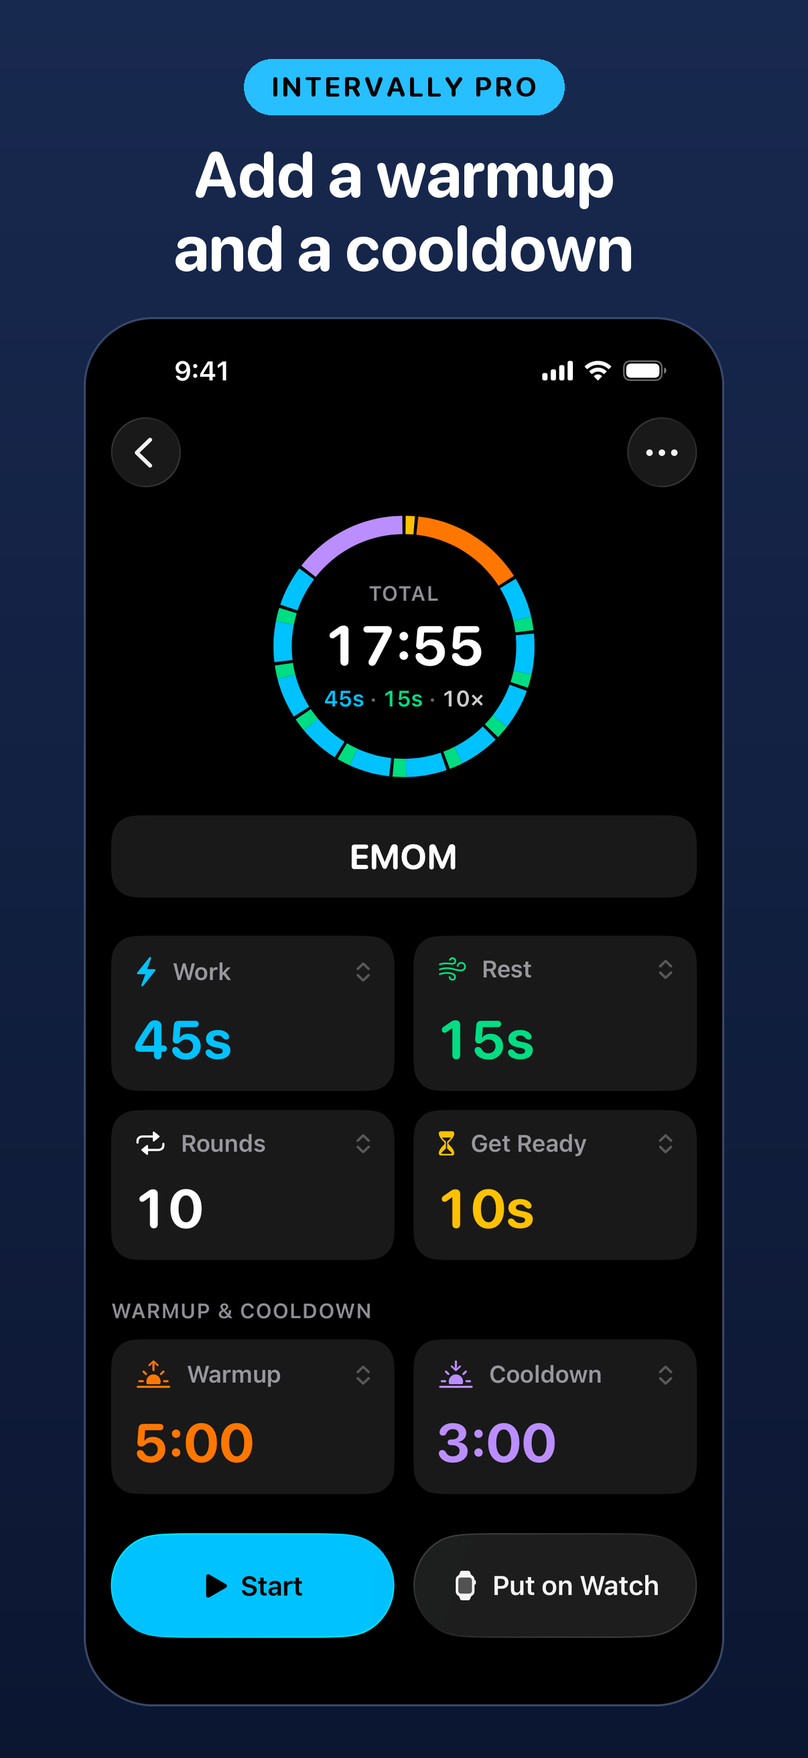
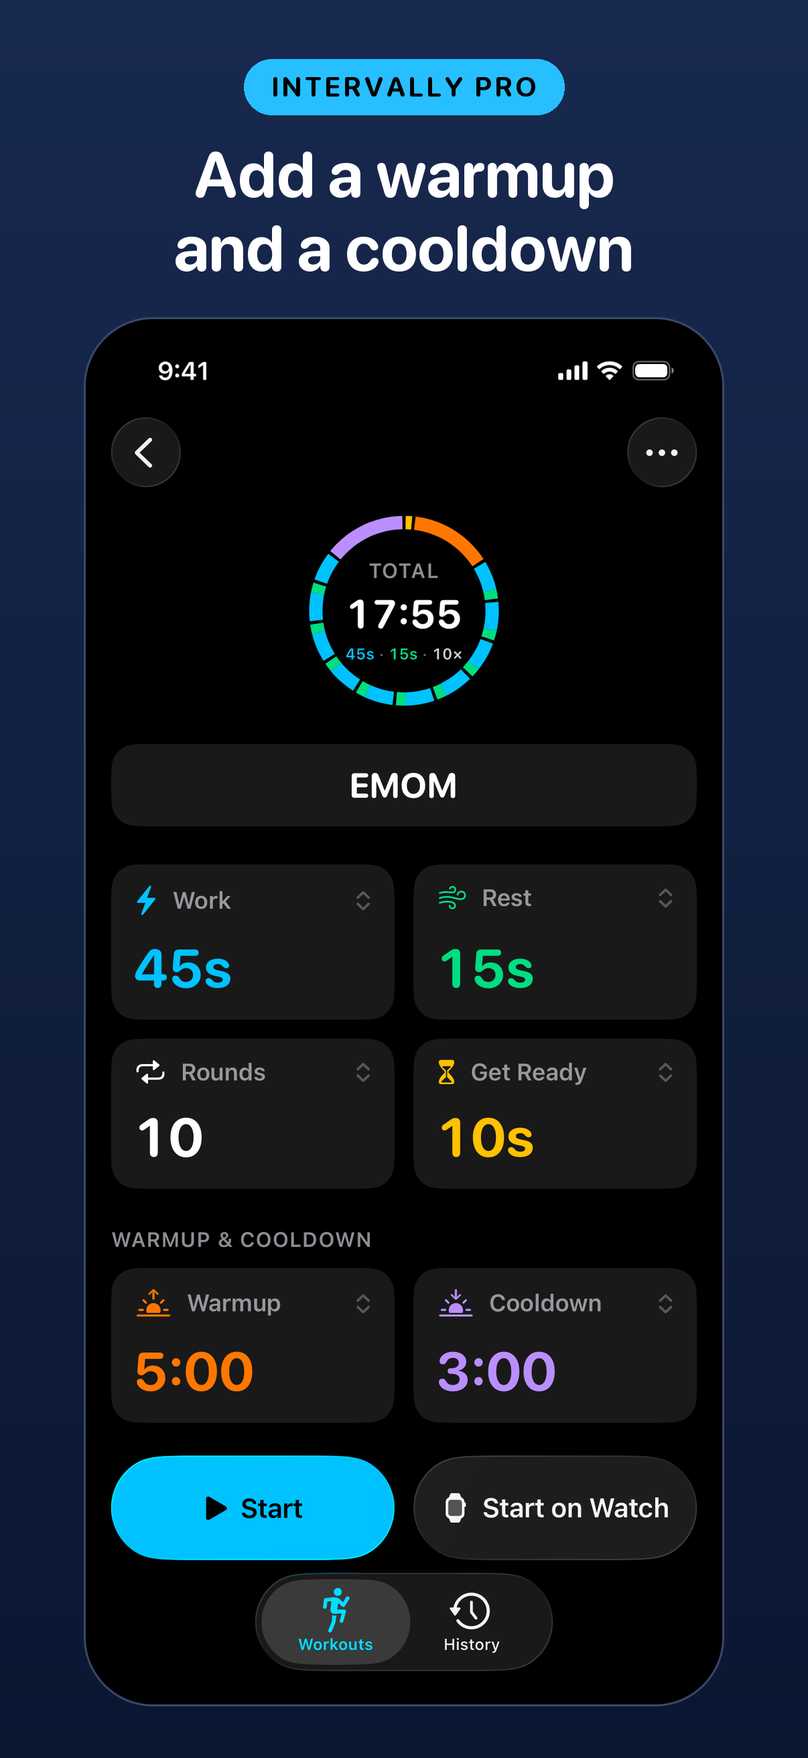
1.1 listing and screenshots for iPad, Start on Watch and calories
- A 13-inch iPad set, now required, and a fresh iPhone set: the editor
  with its tab bar and Start on Watch, the session led by calories.
- compose.py lays out a 3:4 capture for iPad, with iPad captions where
  the iPhone's speak of iPhone or the watch.
- Description, What's New and the reviewer notes cover iPad, iPhone
  Duo, Start on Watch and calories; the notes stay under 4000.
- History rows keep the date and rounds on one line where they fit, and
  put the rounds under the date whole where they don't.

Changed region(s): [[0.1227, 0.278, 0.8897, 0.9577], [0.675, 0.1854, 0.8284, 0.2162], [0.1841, 0.1854, 0.2761, 0.2162]]

diff --git a/PhoneTests/ShipAssetsTests.swift b/PhoneTests/ShipAssetsTests.swift
@@ -21,9 +21,11 @@ struct ShipAssetsTests {
     }
 
     /// Each screenshot folder and the one size App Store Connect takes for it. One iPhone
-    /// set: App Store Connect uses the medium display's shots for every iPhone size.
+    /// set: App Store Connect uses the medium display's shots for every iPhone size. One
+    /// iPad set, the 13-inch, which App Store Connect requires of an app that runs on iPad.
     static let sets: [String: Size] = [
         "iPhone-6.3": Size(width: 1206, height: 2622),
+        "iPad-13": Size(width: 2064, height: 2752),
         "Watch": Size(width: 416, height: 496),
     ]
 
@@ -61,6 +63,16 @@ struct ShipAssetsTests {
         for pro in ["7-pro-editor", "8-pastel"] {
             #expect(compose.contains("('\(pro)', 'INTERVALLY PRO'"), "\(pro) is captioned Intervally Pro (2.3.2)")
         }
+    }
+
+    @Test("The iPad set is the iPhone's, shot for shot, captioned for a device without a watch")
+    func iPadSet() throws {
+        let iPhone = try Self.pngs(in: "iPhone-6.3").map(\.lastPathComponent)
+        let iPad = try Self.pngs(in: "iPad-13").map(\.lastPathComponent)
+        #expect(iPad == iPhone)
+        let compose = try String(contentsOf: Self.screenshots.appendingPathComponent("compose.py"), encoding: .utf8)
+        #expect(compose.contains("'1-run': ('TRAIN ON IPAD'"))
+        #expect(compose.contains("'4-editor': ('EDITOR', ['Build a workout'"), "No 'Start it anywhere' on a device with no watch")
     }
 
     @Test("The In-App Purchase review screenshot is a 6.9-inch capture with no alpha")

diff --git a/Phone/History/HistoryRow.swift b/Phone/History/HistoryRow.swift
@@ -64,10 +64,20 @@ struct HistoryRow: View {
         VStack(alignment: .leading, spacing: 2) {
             Text(session.title)
                 .font(.headline)
-            // With the time: two sessions on one day are otherwise the same row.
-            Text("\(session.start.formatted(.dateTime.weekday(.abbreviated).month(.abbreviated).day().hour().minute())) · \(session.roundsReachedText)")
-                .font(.subheadline)
-                .foregroundStyle(.secondary)
+            // With the time: two sessions on one day are otherwise the same row. On one line
+            // where it fits; where it doesn't, the rounds go under the date whole, rather than
+            // wrapping after the separator and leaving "8/8" on a line alone.
+            let date = session.start.formatted(.dateTime.weekday(.abbreviated).month(.abbreviated).day().hour().minute())
+            ViewThatFits(in: .horizontal) {
+                Text("\(date) · \(session.roundsReachedText)")
+                    .lineLimit(1)
+                VStack(alignment: .leading, spacing: 2) {
+                    Text(date)
+                    Text(session.roundsLineText)
+                }
+            }
+            .font(.subheadline)
+            .foregroundStyle(.secondary)
             // A line of its own: wrapped onto the date's, it began a line with its separator.
             if session.endedEarly {
                 Text("Ended early")

diff --git a/Tests/MetadataTests.swift b/Tests/MetadataTests.swift
@@ -175,8 +175,8 @@ struct MetadataTests {
     @Test("The description says where the data stays, and that workouts run on either device")
     func descriptionSaysWhereDataStays() throws {
         let description = try Self.field("## Description (4000)").text
-        #expect(description.contains("stay on your iPhone and Apple Watch and in Apple Health"))
-        #expect(description.contains("Workouts run on iPhone or Apple Watch, whichever you start them on."))
+        #expect(description.contains("stay on your iPhone, iPad and Apple Watch and in Apple Health"))
+        #expect(description.contains("Workouts run on iPhone, iPad or Apple Watch, whichever you start them on."))
     }
 
     @Test("The purchase goes in with the iOS version, and its notes start on the iPhone")

diff --git a/PhoneTests/SessionSummaryTests.swift b/PhoneTests/SessionSummaryTests.swift
@@ -62,6 +62,7 @@ struct SessionSummaryTests {
         #expect(summary.roundsReached == 5)
         #expect(summary.endedEarly)
         #expect(summary.roundsReachedText == "5/8")
+        #expect(summary.roundsLineText == "5/8 rounds")
         #expect(summary.spokenRounds == "5 of 8 rounds, ended early")
         #expect(summary.completion == 5.0 / 8.0)
     }
@@ -117,6 +118,7 @@ struct SessionSummaryTests {
         #expect(summary.plannedRounds == nil)
         #expect(summary.endedEarly == false)
         #expect(summary.roundsReachedText == "5 rounds")
+        #expect(summary.roundsLineText == "5 rounds")
         #expect(summary.completion == 1)
     }
 

diff --git a/Phone/History/SessionSummary.swift b/Phone/History/SessionSummary.swift
@@ -122,6 +122,11 @@ struct SessionSummary: Identifiable, Hashable, Sendable {
         plannedRounds.map { "\(roundsReached)/\($0)" } ?? DurationFormat.rounds(roundsReached)
     }
 
+    /// "5/8 rounds", on a line of its own, where a bare "5/8" would be a fraction.
+    var roundsLineText: String {
+        plannedRounds.map { "\(roundsReached)/\($0) rounds" } ?? DurationFormat.rounds(roundsReached)
+    }
+
     /// What VoiceOver says for the rounds, an early end included.
     var spokenRounds: String {
         guard let plannedRounds else { return DurationFormat.rounds(roundsReached) }

diff --git a/PhoneTests/PhoneMetadataTests.swift b/PhoneTests/PhoneMetadataTests.swift
@@ -78,7 +78,9 @@ struct PhoneMetadataTests {
 
     @Test("The description names the iPhone's control by its title")
     func descriptionNamesPutOnWatch() throws {
-        #expect(try Self.block("## Description (4000)").contains("Tap \(WorkoutsContent.putOnWatchTitle) and"))
+        let description = try Self.block("## Description (4000)")
+        #expect(description.contains("Tap \(WorkoutsContent.putOnWatchTitle) and"))
+        #expect(description.contains("tap \(WorkoutsContent.startOnWatchTitle) to run one on your wrist"))
     }
 
     // MARK: - Helpers

diff --git a/AppStore/Screenshots/compose.py b/AppStore/Screenshots/compose.py
@@ -1,9 +1,10 @@
-"""Composes the iPhone App Store screenshots from raw simulator captures.
+"""Composes the iPhone and iPad App Store screenshots from raw simulator captures.
 
     python3 compose.py <captures folder> <output folder>
 
 The captures are full-screen PNGs named as in SHOTS, taken at the size App Store Connect
-wants for one display (1320x2868 on an iPhone 17 Pro Max, 1206x2622 on an iPhone 17 Pro).
+wants for one display (1206x2622 on an iPhone 17 Pro, 2064x2752 on a 13-inch iPad Pro).
+A capture as wide as an iPad's gets the iPad's proportions and captions.
 Each comes out at that same size: a caption on the app icon's navy, over the capture with
 its screen corners, flattened to RGB because App Store Connect rejects an alpha channel.
 
@@ -27,20 +28,40 @@ SHOTS = [
     ('3-workouts', 'WORKOUTS', ['Every workout,', 'one tap from Start'], False),
     ('4-editor', 'EDITOR', ['Build it here.', 'Start it anywhere.'], False),
     ('5-history', 'HISTORY', ['Every session,', 'interval by interval'], False),
-    ('6-session', 'SESSION', ['Your heart rate,', 'every interval'], False),
+    ('6-session', 'SESSION', ['Your calories,', 'every interval'], False),
     ('7-pro-editor', 'INTERVALLY PRO', ['Add a warmup', 'and a cooldown'], True),
     ('8-pastel', 'INTERVALLY PRO', ['Make it yours', 'with Pastel'], True),
 ]
 
-# Fractions of the canvas width, so both display sizes share one layout.
-TOP = 0.095            # the eyebrow's cap height starts here
-EYEBROW_SIZE = 0.034
-HEADLINE_SIZE = 0.080
-LINE_GAP = 0.012
-HEADLINE_GAP = 0.045    # from the eyebrow's baseline to the headline's top
-SCREEN_TOP = 0.395     # below the caption
-BOTTOM = 0.066         # margin under the screen
-CORNER = 0.105         # the display's corner radius, as a fraction of its width
+# On iPad, where a run has no watch to start it on: the same shots, worded for it.
+IPAD_CAPTIONS = {
+    '1-run': ('TRAIN ON IPAD', ['Press Start.', 'Hear every interval.']),
+    '4-editor': ('EDITOR', ['Build a workout', 'in seconds']),
+}
+
+
+class Layout:
+    """Fractions of the canvas width, so every display of one kind shares one layout."""
+
+    def __init__(self, top, eyebrow, headline, line_gap, headline_gap, screen_top, bottom, corner):
+        self.top = top                  # the eyebrow's cap height starts here
+        self.eyebrow = eyebrow
+        self.headline = headline
+        self.line_gap = line_gap
+        self.headline_gap = headline_gap  # from the eyebrow's baseline to the headline's top
+        self.screen_top = screen_top    # below the caption
+        self.bottom = bottom            # margin under the screen
+        self.corner = corner            # the display's corner radius, as a fraction of its width
+
+
+IPHONE = Layout(0.095, 0.034, 0.080, 0.012, 0.045, 0.395, 0.066, 0.105)
+# A 3:4 canvas: the screen takes more of it, and the words less of its width.
+IPAD = Layout(0.062, 0.022, 0.052, 0.008, 0.028, 0.262, 0.05, 0.035)
+
+
+def layout_for(size):
+    width, height = size
+    return IPAD if width / height > 0.6 else IPHONE
 
 
 def font(size, weight):
@@ -79,18 +100,19 @@ def draw_tracked(draw, baseline, text, face, fill, width, tracking):
 
 def compose(capture, eyebrow, lines, capsule):
     width, height = capture.size
+    lay = layout_for(capture.size)
     canvas = gradient(width, height)
     draw = ImageDraw.Draw(canvas)
 
-    eyebrow_face = font(round(width * EYEBROW_SIZE), 'Bold')
-    tracking = round(width * EYEBROW_SIZE * 0.12)
+    eyebrow_face = font(round(width * lay.eyebrow), 'Bold')
+    tracking = round(width * lay.eyebrow * 0.12)
     cap_height = eyebrow_face.getbbox('H', anchor='ls')
     cap_height = cap_height[3] - cap_height[1]
-    baseline = round(width * TOP) + cap_height
+    baseline = round(width * lay.top) + cap_height
     if capsule:
         # The Pro shot's marker: the brand blue capsule with dark text, drawn as the app
         # draws its one tinted control.
-        pad_x, pad_y = width * 0.035, width * 0.022
+        pad_x, pad_y = width * lay.eyebrow * 1.03, width * lay.eyebrow * 0.65
         half = tracked_width(draw, eyebrow, eyebrow_face, tracking) / 2 + pad_x
         top, bottom = baseline - cap_height - pad_y, baseline + pad_y
         draw.rounded_rectangle((width / 2 - half, top, width / 2 + half, bottom), (bottom - top) / 2, fill=BLUE)
@@ -98,18 +120,18 @@ def compose(capture, eyebrow, lines, capsule):
     else:
         draw_tracked(draw, baseline, eyebrow, eyebrow_face, BLUE, width, tracking)
 
-    headline_face = font(round(width * HEADLINE_SIZE), 'Bold')
-    line_height = headline_face.size + round(width * LINE_GAP)
-    baseline += round(width * HEADLINE_GAP) + headline_face.size
+    headline_face = font(round(width * lay.headline), 'Bold')
+    line_height = headline_face.size + round(width * lay.line_gap)
+    baseline += round(width * lay.headline_gap) + headline_face.size
     for line in lines:
         draw.text((width / 2, baseline), line, font=headline_face, fill=WHITE, anchor='ms')
         baseline += line_height
 
-    top = round(width * SCREEN_TOP)
-    screen_h = height - top - round(width * BOTTOM)
+    top = round(width * lay.screen_top)
+    screen_h = height - top - round(width * lay.bottom)
     screen_w = round(screen_h * width / height)
     screen = capture.convert('RGB').resize((screen_w, screen_h), Image.LANCZOS)
-    radius = round(screen_w * CORNER)
+    radius = round(screen_w * lay.corner)
     x = (width - screen_w) // 2
 
     # A hairline keyline, so the black screen's edge holds against the navy.
@@ -124,6 +146,8 @@ def main(source, destination):
     os.makedirs(destination, exist_ok=True)
     for name, eyebrow, lines, capsule in SHOTS:
         capture = Image.open(os.path.join(source, f'{name}.png'))
+        if layout_for(capture.size) is IPAD and name in IPAD_CAPTIONS:
+            eyebrow, lines = IPAD_CAPTIONS[name]
         out = compose(capture, eyebrow, lines, capsule)
         assert out.size == capture.size and out.mode == 'RGB'
         out.save(os.path.join(destination, f'{name}.png'), optimize=True)

diff --git a/AppStore/Metadata.md b/AppStore/Metadata.md
@@ -57,26 +57,26 @@ through a josiahrininger.com pull request merged before submitting:
 ## Promotional text (170)
 
 ```
-Now on iPhone too: press Start and hear every interval, with the countdown on your Lock Screen. On Apple Watch, every change taps your wrist, even with the screen off.
+Now on iPhone and iPad: press Start and hear every interval, with the countdown on your Lock Screen. On Apple Watch, every change taps your wrist, screen off or not.
 ```
-(167)
+(165)
 
 ## Description (4000)
 
 ```
-Intervally is an interval timer for iPhone and Apple Watch. Set how long to work, how long to rest, and how many rounds, press Start, and train. Every interval change is marked for you, with a tone on your iPhone or a tap on your wrist, so you never have to watch the clock.
+Intervally is an interval timer for iPhone, iPad and Apple Watch. Set how long to work, how long to rest, and how many rounds, press Start, and train. Every interval change is marked for you, with a tone on your iPhone or a tap on your wrist, so you never have to watch the clock.
 
-TRAIN WITH YOUR IPHONE
+TRAIN WITH YOUR IPHONE OR IPAD
 Press Start and put your phone down. A tone marks each change, higher for work and lower for rest, with a 3-2-1 countdown before it, and your music keeps playing underneath. The countdown stays on your Lock Screen and in the Dynamic Island, and the workout keeps going with your phone locked.
 
 OR ON YOUR WRIST
-With Apple Watch, every interval change taps your wrist, even with your wrist down or the screen off. Build workouts on iPhone. Tap Put on Watch and it's the next workout your watch starts. Changes reach your watch on their own, and each app keeps working without the other.
+With Apple Watch, every interval change taps your wrist, even with your wrist down or the screen off. Build workouts on iPhone, then tap Start on Watch to run one on your wrist right away. Tap Put on Watch and it's the next workout your watch starts. Changes reach your watch on their own, and each app keeps working without the other.
 
 KNOW WHERE YOU ARE AT A GLANCE
 A large countdown sits inside a ring that runs down with it. Each phase has its own color — amber to get ready, blue to work, green to rest — so a quick glance tells you everything mid-burpee.
 
 SEE EVERY SESSION
-Every workout you finish is saved to Apple Health. History on iPhone shows them all: the rounds you finished and the energy you burned, and with Apple Watch your average and highest heart rate and your heart rate for every interval.
+Every workout you finish is saved to Apple Health. History on iPhone shows them all: the rounds you finished and the calories you burned in every interval, and with Apple Watch your average and highest heart rate and your heart rate for every interval.
 
 PRESETS FOR HOW YOU TRAIN
 Start with Classic, Tabata, or EMOM and adjust any interval. Intervally Pro, a one-time purchase, adds unlimited presets, warmup and cooldown phases, a voice coach that calls out every interval on iPhone, stronger taps on Apple Watch, and Pastel, a theme in soft colors. Buy it once, on your iPhone or your watch, and it unlocks both.
@@ -95,9 +95,9 @@ START IT YOUR WAY ON APPLE WATCH
 • Add the complication to your watch face to see the interval you're on
 
 PRIVATE BY DESIGN
-No account, no ads, no tracking, and no servers. Your presets and workouts stay on your iPhone and Apple Watch and in Apple Health, and presets travel directly between your own devices.
+No account, no ads, no tracking, and no servers. Your presets and workouts stay on your iPhone, iPad and Apple Watch and in Apple Health, and presets travel directly between your own devices.
 
-Workouts run on iPhone or Apple Watch, whichever you start them on. Intervally is a timer, not a medical device. Check with a healthcare provider before starting a new exercise program.
+Workouts run on iPhone, iPad or Apple Watch, whichever you start them on. Made for every iPhone, iPhone Duo included, and for iPad in any orientation. Intervally is a timer, not a medical device. Check with a healthcare provider before starting a new exercise program.
 ```
 
 ## Keywords (100)
@@ -110,15 +110,16 @@ watch,circuit,boxing,training,rounds,rest,gym,countdown,amrap,cardio,sprint,yoga
 ## What's New in 1.1 (4000)
 
 ```
-Intervally now runs your workouts on iPhone too, no Apple Watch needed.
+Intervally now runs your workouts on iPhone and iPad too, no Apple Watch needed.
 
 • Press Start on any workout and hear every interval: a tone for each change, higher for work and lower for rest, with a 3-2-1 countdown before it. Your music keeps playing underneath.
 • The countdown stays on your Lock Screen and in the Dynamic Island, and the workout keeps going with your phone locked.
-• Every workout you finish on iPhone is saved to Apple Health and shows up in History.
+• Every workout you finish is saved to Apple Health. History now shows the calories you burned in every interval.
 • Intervally Pro adds a voice coach that calls out every interval.
-• Choose what you hear in Settings > Sounds & Voice.
+• Choose what you hear, and how loud, in Settings > Sounds & Voice.
+• Made for iPad and iPhone Duo, in any orientation.
 
-With Apple Watch, nothing changes: build on iPhone, train on your wrist.
+With Apple Watch: tap Start on Watch to run a workout on your wrist straight from your iPhone.
 ```
 
 ## App Privacy (nutrition label)
@@ -150,12 +151,12 @@ Paste this verbatim. It pre-empts the questions HealthKit, the background modes,
 Activity and the In-App Purchase attract:
 
 ```
-Intervally is an interval timer for iPhone and Apple Watch. No account or sign-in is needed. New in 1.1: workouts run on iPhone too, with no Apple Watch required. Every iPhone screen works without a paired watch, including on iPad.
+Intervally is an interval timer for iPhone and Apple Watch. No account or sign-in is needed. New in 1.1: workouts run on iPhone and iPad too, no Apple Watch required. Every screen works without a watch, and natively on iPad.
 
 ON IPHONE
 1. Workouts lists the presets. Tap Start on the workout up next, or the play button on any workout, to run it. The first run asks for notifications and Apple Health.
 2. The run counts down a 10-second lead-in, then alternates work and rest, with a tone at each change and a 3-2-1 tick before it. Lock the phone: the countdown stays on the Lock Screen (a Live Activity) and the tones continue. X (bottom left) ends the run; bottom right skips an interval. A finished run shows a summary and is saved to Health.
-3. Tap a workout to edit it: each tile (Work, Rest, Rounds, Get Ready) opens a picker, and changes save as they are made. Put on Watch makes it the workout the watch starts next. + adds a workout.
+3. Tap a workout to edit it: each tile (Work, Rest, Rounds, Get Ready) opens a picker, and changes save as they are made. With a paired watch, Start on Watch runs it on the watch, and Put on Watch makes it the workout the watch starts next. + adds a workout.
 4. History reads the interval workouts saved to Apple Health by either device. Tap Connect Apple Health. Until a workout has been saved, History explains where sessions come from.
 5. Settings (the gear at top left) has Intervally Pro, Theme, Sounds & Voice, Apple Watch, Apple Health, Restore Purchases, Redeem Code, Support and the Privacy Policy.
 6. Settings > Theme switches between Classic and Pastel. Pastel is part of Intervally Pro, and also changes the Home Screen icon.
@@ -164,7 +165,7 @@ ON IPHONE
 ON APPLE WATCH
 1. Tap Start. Allow notifications and Apple Health when asked.
 2. The timer counts down a 10-second lead-in, then alternates work and rest intervals.
-3. Lower your wrist or let the screen turn off — the watch taps at each interval change.
+3. Lower your wrist or let the screen turn off: the watch taps at each change.
 4. Tap the X (bottom left) to end, or let it finish to see the summary and the workout saved to Health. The button at top right skips to the next interval.
 Presets sync between the two apps over WatchConnectivity, directly between the user's own devices. Each app keeps its own copy and works on its own.
 
@@ -203,9 +204,9 @@ these for every iPhone size, so there is no 6.9" set. 1.1's set leads with a run
 | `1-run.png` | TRAIN ON IPHONE · Press Start. Hear every interval. | Classic running on iPhone: work, round 3 of 8, the depleting ring, End, Pause and Skip |
 | `2-lock.png` | LOCK SCREEN · Your countdown, phone locked | The run's Live Activity on the Lock Screen: the phase, its countdown and bar, the next interval |
 | `3-workouts.png` | WORKOUTS · Every workout, one tap from Start | The workout up next with Start, and the library with a play button on each |
-| `4-editor.png` | EDITOR · Build it here. Start it anywhere. | Tabata's editor: its ring, a tile per number, Start and Put on Watch; Warmup and Cooldown marked PRO |
+| `4-editor.png` | EDITOR · Build it here. Start it anywhere. | Tabata's editor: its ring, a tile per number, Start and Start on Watch; Warmup and Cooldown marked PRO |
 | `5-history.png` | HISTORY · Every session, interval by interval | History grouped by week, an early end included |
-| `6-session.png` | SESSION · Your heart rate, every interval | A session's ring, totals and heart rate per interval |
+| `6-session.png` | SESSION · Your calories, every interval | A session's ring, totals and the calories burned in each interval |
 | `7-pro-editor.png` | INTERVALLY PRO · Add a warmup and a cooldown | EMOM with a 5-minute warmup and a 3-minute cooldown. A Pro feature, so the caption names Intervally Pro (Guideline 2.3.2) |
 | `8-pastel.png` | INTERVALLY PRO · Make it yours with Pastel | A run in the Pastel theme. A Pro feature, so the caption names Intervally Pro (Guideline 2.3.2) |
 
@@ -216,14 +217,34 @@ into these files at the same size. To retake them, in a Debug build:
   --batteryState discharging --batteryLevel 100 --wifiBars 3 --cellularMode active
   --cellularBars 4`. Launch with `-phone.welcomeSeen.v1 YES -phone.editorTipSeen.v1 YES
   -qaWatch installed` and `-qaPro free`, or `-qaPro pro` for shots 7 and 8.
-- Shots 1, 2 and 8: `-qaRunElapsed 103` restores Classic three rounds in (8 adds
+- Shots 1, 2 and 8: `-qaRunElapsed 100` restores Classic three rounds in (8 adds
   `-qaTheme pastel`). Allow notifications, Health and Live Activities once. For shot 2,
   lock the simulator. End each run with End, never by quitting the app: a simulator
   whose app was killed mid-workout keeps a stuck workout session until it is rebooted.
-- Shots 4 and 7: open Tabata and EMOM from the library. Shot 7 sets EMOM's bookends with
-  `-qaEdit "warmup 2 300; cooldown 2 180"`.
+- Shots 4 and 7: `-qaOpen editor` with `-qaEdit "select 1"` (Tabata), and for 7
+  `-qaEdit "select 2; warmup 2 300; cooldown 2 180"` (EMOM with bookends). Every other
+  shot resets them with `-qaEdit "select 0; warmup 2 0; cooldown 2 0"`.
 - Shots 5 and 6 use `-qaHistory sample -qaOpen history` and `-qaOpen session`. The sample
   sessions are a fixture: nothing is read from or written to Health (Guideline 5.1.3(ii)).
+
+### iPad — 2064 × 2752, `AppStore/Screenshots/iPad-13/`
+
+Captured on a 13-inch iPad Pro simulator (iPadOS 26.3) in portrait, the same eight states
+the same way, without `-qaWatch` (iPad has no Apple Watch), on the "iPad 13-inch Display"
+tab. Required now that the app runs on iPad. compose.py gives a 3:4 capture the iPad's
+proportions and its own captions for the two shots that would otherwise speak of iPhone
+or the watch.
+
+| File | Caption | Shows |
+|---|---|---|
+| `iPad-13/1-run.png` | TRAIN ON IPAD · Press Start. Hear every interval. | Classic running on iPad |
+| `iPad-13/2-lock.png` | LOCK SCREEN · Your countdown, phone locked | The run's Live Activity on the iPad Lock Screen |
+| `iPad-13/3-workouts.png` | WORKOUTS · Every workout, one tap from Start | Workouts in a centred column, the tabs at the top |
+| `iPad-13/4-editor.png` | EDITOR · Build a workout in seconds | Tabata's editor; Warmup and Cooldown marked PRO |
+| `iPad-13/5-history.png` | HISTORY · Every session, interval by interval | History grouped by week |
+| `iPad-13/6-session.png` | SESSION · Your calories, every interval | A session's totals and calories per interval, with its interval list |
+| `iPad-13/7-pro-editor.png` | INTERVALLY PRO · Add a warmup and a cooldown | EMOM with bookends (Guideline 2.3.2) |
+| `iPad-13/8-pastel.png` | INTERVALLY PRO · Make it yours with Pastel | A run in Pastel (Guideline 2.3.2) |
 
 ### Apple Watch — 416 × 496, `AppStore/Screenshots/Watch/`
 
